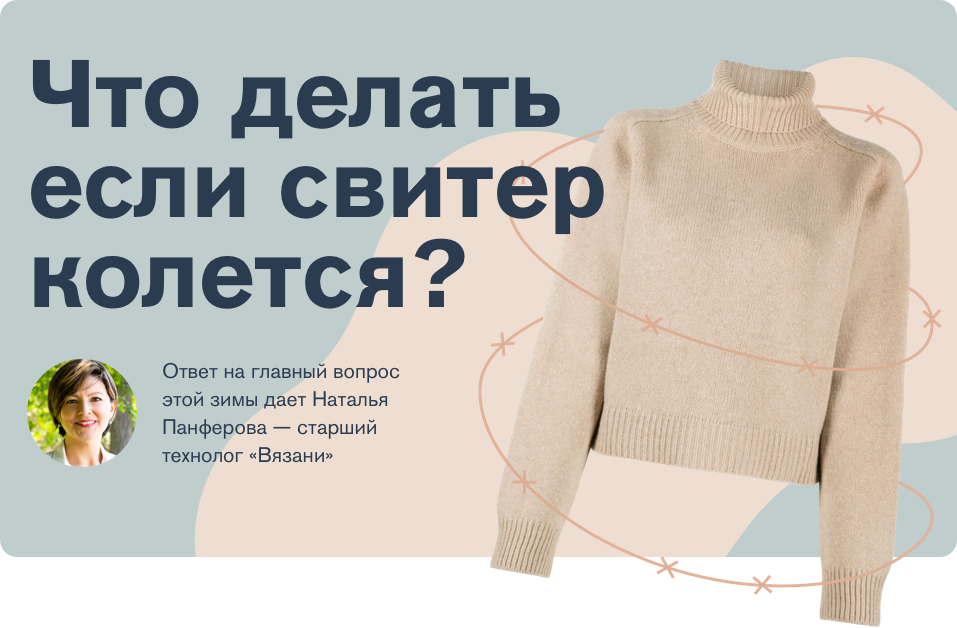
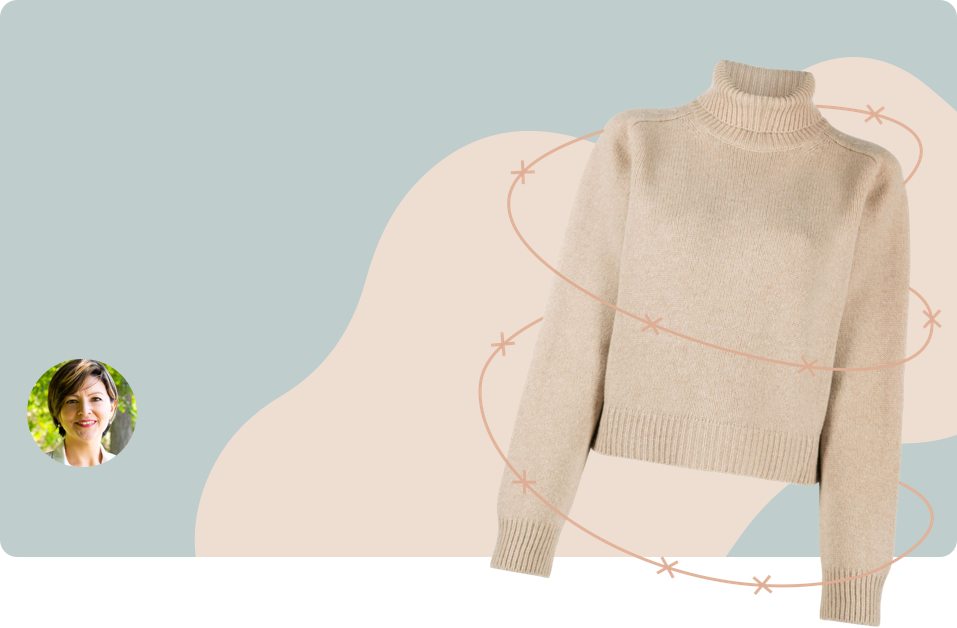
update index+css

diff --git a/style.css b/style.css
@@ -39,26 +39,7 @@
 }
 
 
-/*@font-face {
-font-family: "AkzidenzGroteskPro";  
-src: url("./fonts/AkzidenzGroteskPro-Bold.ttf") format("truetype"); 
-font-style: normal; 
-font-weight: bold;
- }
 
-@font-face {
-font-family: "AkzidenzGroteskPro";  
-src: url("./fonts/AkzidenzGroteskPro-Regular.ttf") format("truetype"); 
-font-style: normal; 
-font-weight: normal;
- }
-
-@font-face {
-font-family: "AkzidenzGroteskPro";  
-src: url("./fonts/AkzidenzGroteskPro-Super.ttf") format("truetype"); 
-font-style: normal; 
-font-weight: bold;
- }*/
 
 body {
 	background: #FBF8F2;
@@ -148,9 +129,7 @@ h5 {
   background-color:transparent!important;
 }
 
-/*.col-md-6.mt-md-0.mt-3 {
-  padding-left: 50px;
-}*/
+
 
 .col-6 {
   padding-left: 15px;
@@ -165,9 +144,7 @@ h5 {
 /*  padding-left: 12px;*/
 }
 
-/*.img-fluid.image_4 {
-  padding-left: 15px;
-}*/
+
 
 .name-1 {
   padding-left: 40px;
@@ -176,11 +153,11 @@ h5 {
 
  .container.part2 {
   margin-top: 55px;
-/*  padding-left: 30px;*/
+
  }
 
  .container.main {
-/*  padding-left: 30px;*/
+
   margin-top: -3px;
  }
 
@@ -205,7 +182,7 @@ h5 {
 
  .col-sm-8 {
   margin-left:-20px;
- /* padding-left: 10px;*/
+
  }
 
  .сol-6.link {
@@ -216,13 +193,6 @@ h5 {
   padding-top:5px;
  }
 
-/* .col-6.our-sweaters {
-  padding-left: 25px;
- }*/
-
-/*  .col-6.new-items {
-  padding-left: 25px;
- }*/
 
  .link-all {
   font-family: "AkzidenzGroteskPro-Regular",sans-serif;
@@ -235,7 +205,6 @@ h5 {
 
  .sweater-1 {
   padding-top: 20px;
-  /*padding-left: 10px;*/
  }
 
  .sweater-1:hover {
@@ -311,8 +280,34 @@ h5 {
   padding-left: 100px!important;
 }
 
-/*.col-sm.sweater-3 {
-margin-left:-20px;
+.Vyazan-image {
+  background-image: url("picture_1.png");
+  background-repeat: no-repeat;
+  height: 628px;
 
-}*/
+}
+
+.Zag {
+  padding-left: 30px;
+  padding-top: 48px;
+  max-width: 620px;
+
+}
+
+.Podzag {
+  padding-top: 26px;
+  max-width: 250px;
+  margin-left: 160px;
+
+}
+
+.Podzag-text {
+  font-family: "AkzidenzGroteskPro-Regular",sans-serif;
+  color: #2B3C51;
+  font-weight: 400;
+  font-size: 21px;
+  line-height: 28px;
+
+}
+
 

diff --git a/index.html b/index.html
@@ -31,9 +31,17 @@
   </div>
 </nav>
 
+<div class="Vyazan-image">
+  <div class="Zag"><h1>Что делать если свитер колется?</h1>
+  </div>
 
-<div class="picture_1">
-  <img src=".\picture_1.png" class="img-fluid image_1" alt="Что делать если свитер колется?">
+  <div class="Podzag">
+    <p class="Podzag-text">Ответ на главный вопрос
+      этой зимы дает Наталья
+      Панферова — старший
+      технолог «Вязани» </p>
+    
+  </div>
 </div>
 
 <div class="container main">
